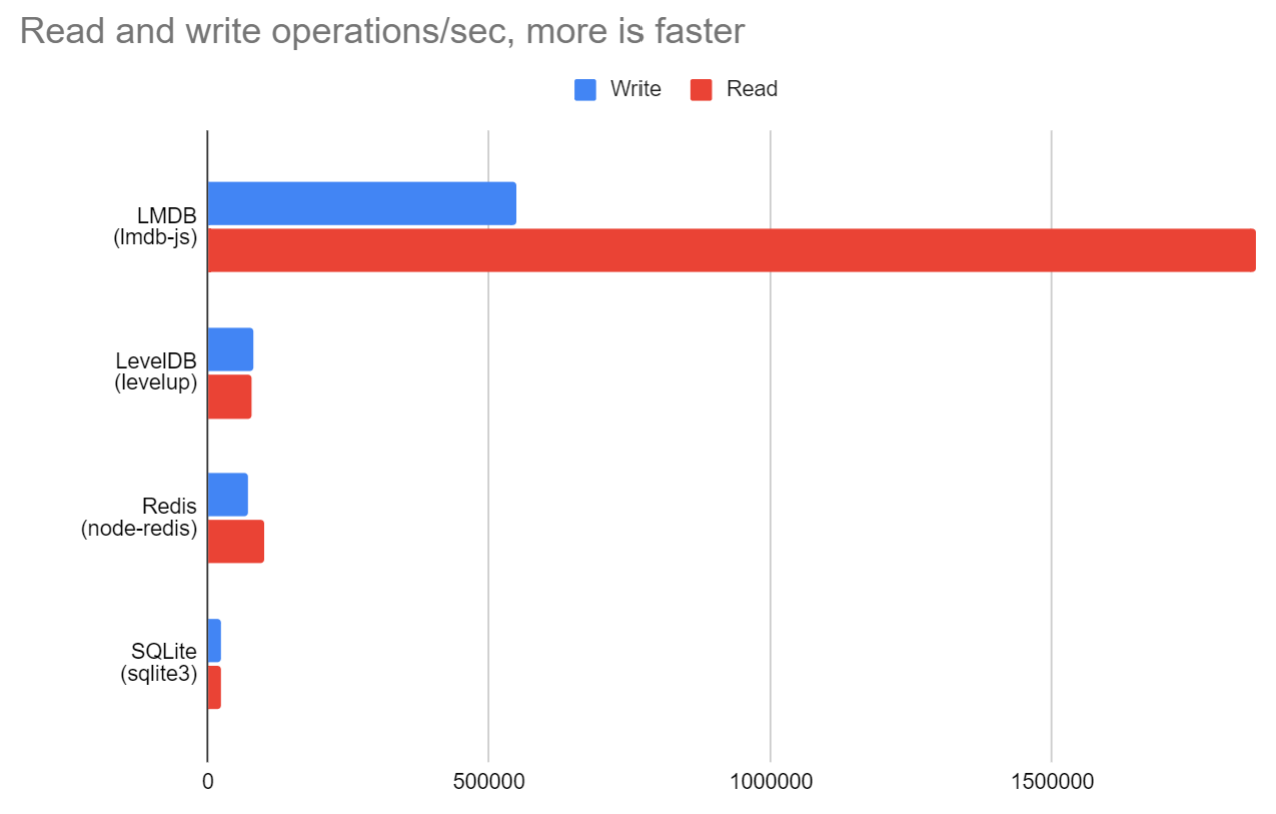
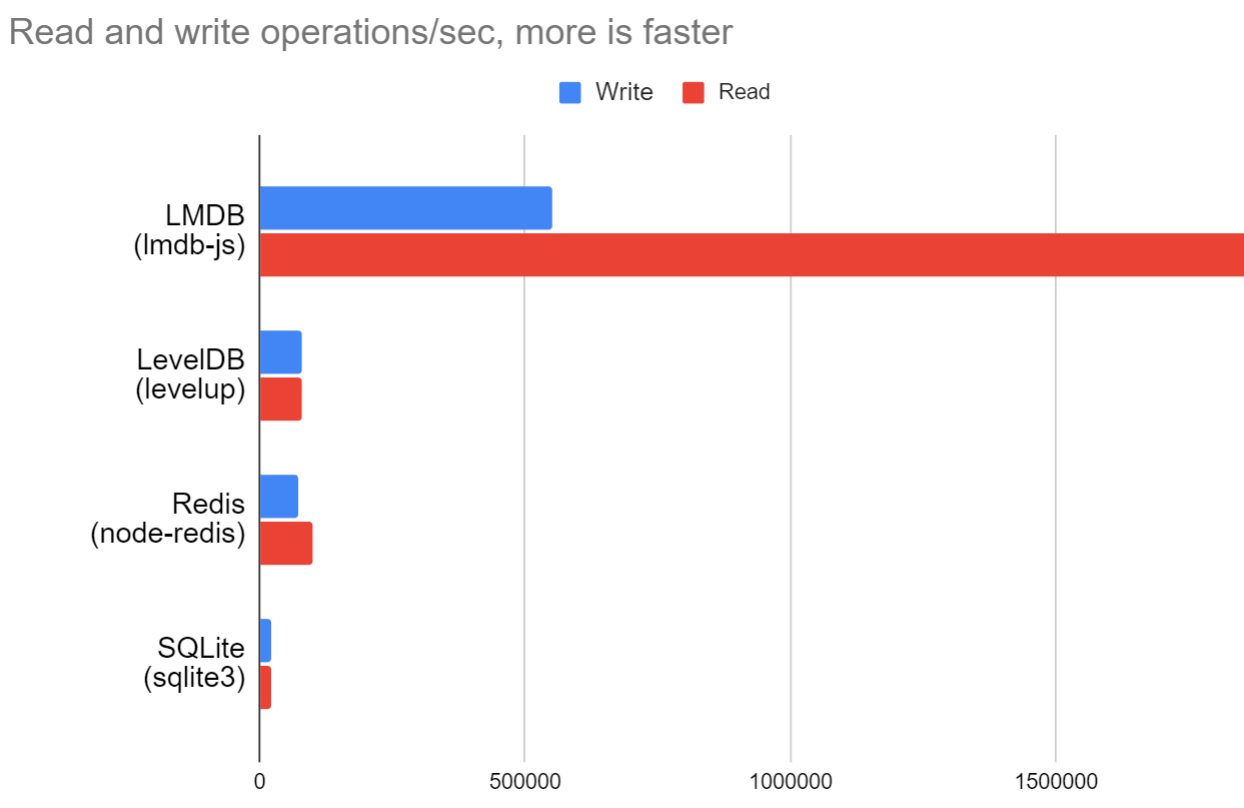
Adjust chart

diff --git a/README.md b/README.md
@@ -10,13 +10,13 @@ This is an ultra-fast NodeJS interface to LMDB; probably the fastest and most ef
 * Simple transaction management
 * Iterable queries/cursors
 * Record versioning and optimistic locking for scalability/concurrency
-* Optional native off-main-thread compression with high-performance LZ4 compression <a href="https://github.com/kriszyp/db-benchmark"><img align="right" src="./assets/performance.png" width="500"/></a>
+* Optional native off-main-thread compression with high-performance LZ4 compression <a href="https://github.com/kriszyp/db-benchmark"><img align="right" src="./assets/performance.png" width="380"/></a>
 * And ridiculously fast and efficient, with integrated (de)serialization, data retrieval can be several times than `JSON` alone
 
 
 `lmdb-js` is used in many heavy-use production applications, including as a high-performance cache for builds in [Parcel](https://parceljs.org/) and [Elasticsearch's Kibana](https://www.elastic.co/kibana/), as the storage layer for [HarperDB](https://harperdb.io/) and [Gatsby](https://www.gatsbyjs.com/)'s database, and for search and analytical engine for our [clinical medical research](https://drevidence.com).
 
-<a href="https://www.elastic.co/kibana/"><img src="https://static-www.elastic.co/v3/assets/bltefdd0b53724fa2ce/blt4466841eed0bf232/5d082a5e97f2babb5af907ee/logo-kibana-32-color.svg" width="50"></a>
+<a href="https://www.elastic.co/kibana/"><img src="https://static-www.elastic.co/v3/assets/bltefdd0b53724fa2ce/blt4466841eed0bf232/5d082a5e97f2babb5af907ee/logo-kibana-32-color.svg" width="40"></a>
 <a href="https://parceljs.org/"><img src="https://parceljs.org/avatar.633bb25a.avif" width="56"></a>
 <a href="https://harperdb.io/"><img src="./assets/harperdb.png" width="55"/></a>
 <a href="https://www.gatsbyjs.com/"><img src="./assets/gatsby.png" width="60"/></a>
